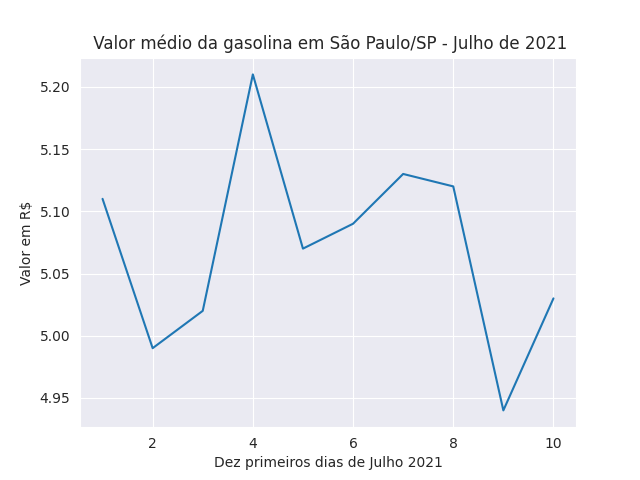
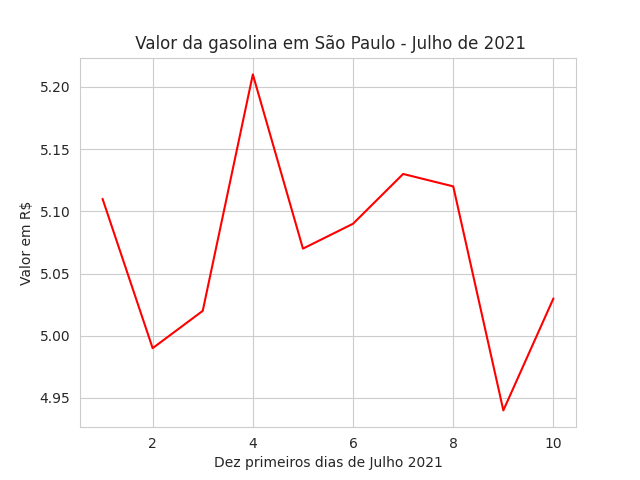
adicionado grafico, py e base em dev

diff --git a/gasolina.py b/gasolina.py
@@ -4,8 +4,8 @@ import seaborn as sns
 df_gasolina = pd.read_csv('./gasolina.csv')
 
 # grafico
-with sns.axes_style('darkgrid'):
-  grafico = sns.lineplot(data=df_gasolina, x='dia', y='venda', palette='dark')
-  grafico.set(title=' Valor médio da gasolina em São Paulo/SP - Julho de 2021', xlabel='Dez primeiros dias de Julho 2021', ylabel='Valor em R$')
-# Salva o gráfico como um arquivo PNG
+with sns.axes_style('whitegrid'):
+  grafico = sns.lineplot(data=df_gasolina, x='dia', y='venda', color ='red')
+  grafico.set(title=' Valor da gasolina em São Paulo - Julho de 2021', xlabel='Dez primeiros dias de Julho 2021', ylabel='Valor em R$')
+# Salvar o gráfico como um arquivo PNG
   grafico.figure.savefig('gasolina.png')
